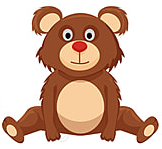
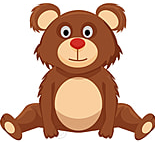
re cutted imgs
d

diff --git a/memorygame.py b/memorygame.py
@@ -63,14 +63,16 @@ img_dir2 = os.path.join(os.path.dirname(__file__), "Imgs2")
 images1 = [] 
 files = os.listdir(img_dir1)
 for file in files:
-	img = pygame.image.load(os.path.join(img_dir1, file))
-	images1.append(img)
+    img = pygame.image.load(os.path.join(img_dir1, file))
+    img.set_colorkey(WHITE)
+    images1.append(img)
 
 images2 = [] 
 files = os.listdir(img_dir2)
 for file in files:
-	img = pygame.image.load(os.path.join(img_dir2, file))
-	images2.append(img)
+    img = pygame.image.load(os.path.join(img_dir2, file))
+    img.set_colorkey(WHITE)
+    images2.append(img)
 
 # we make a dictionary for the levels and images, so we can switch images using the level (1,2) as the dictionary key, i.e. we can just do:
 # for img in level_dict[self.level]:
@@ -407,7 +409,7 @@ class MemoryGame(object):
             self.scene = GameScene(self, self.game_images, main_image, "game", "Score") 
             self.turn_counter += 1
             
-            if self.turn_counter == 2:
+            if self.turn_counter == 3:
                 self.turn_counter = 0
                 if self.level < self.max_level:
                     self.level += 1
